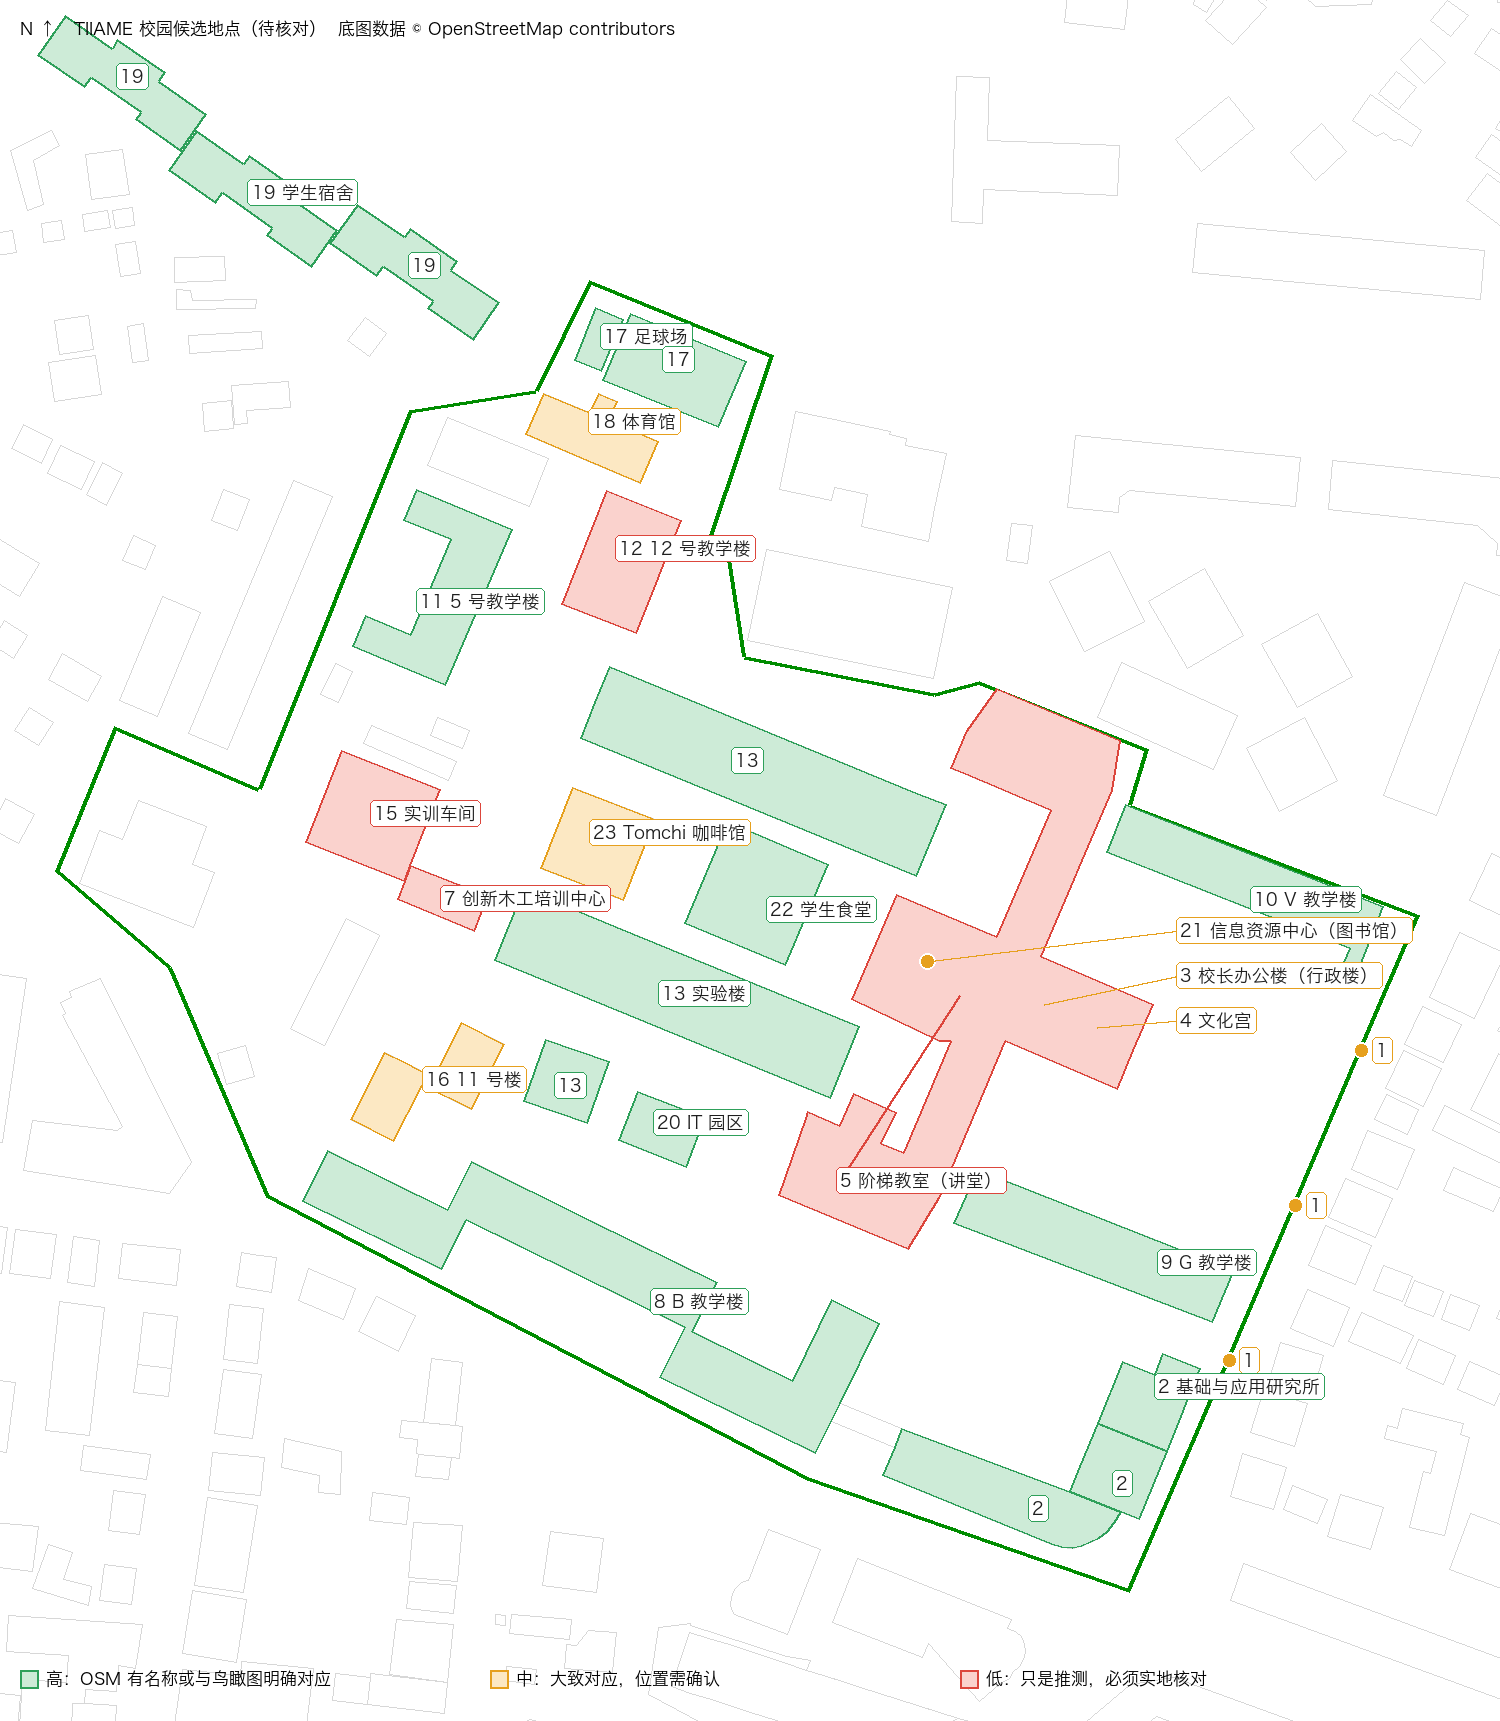
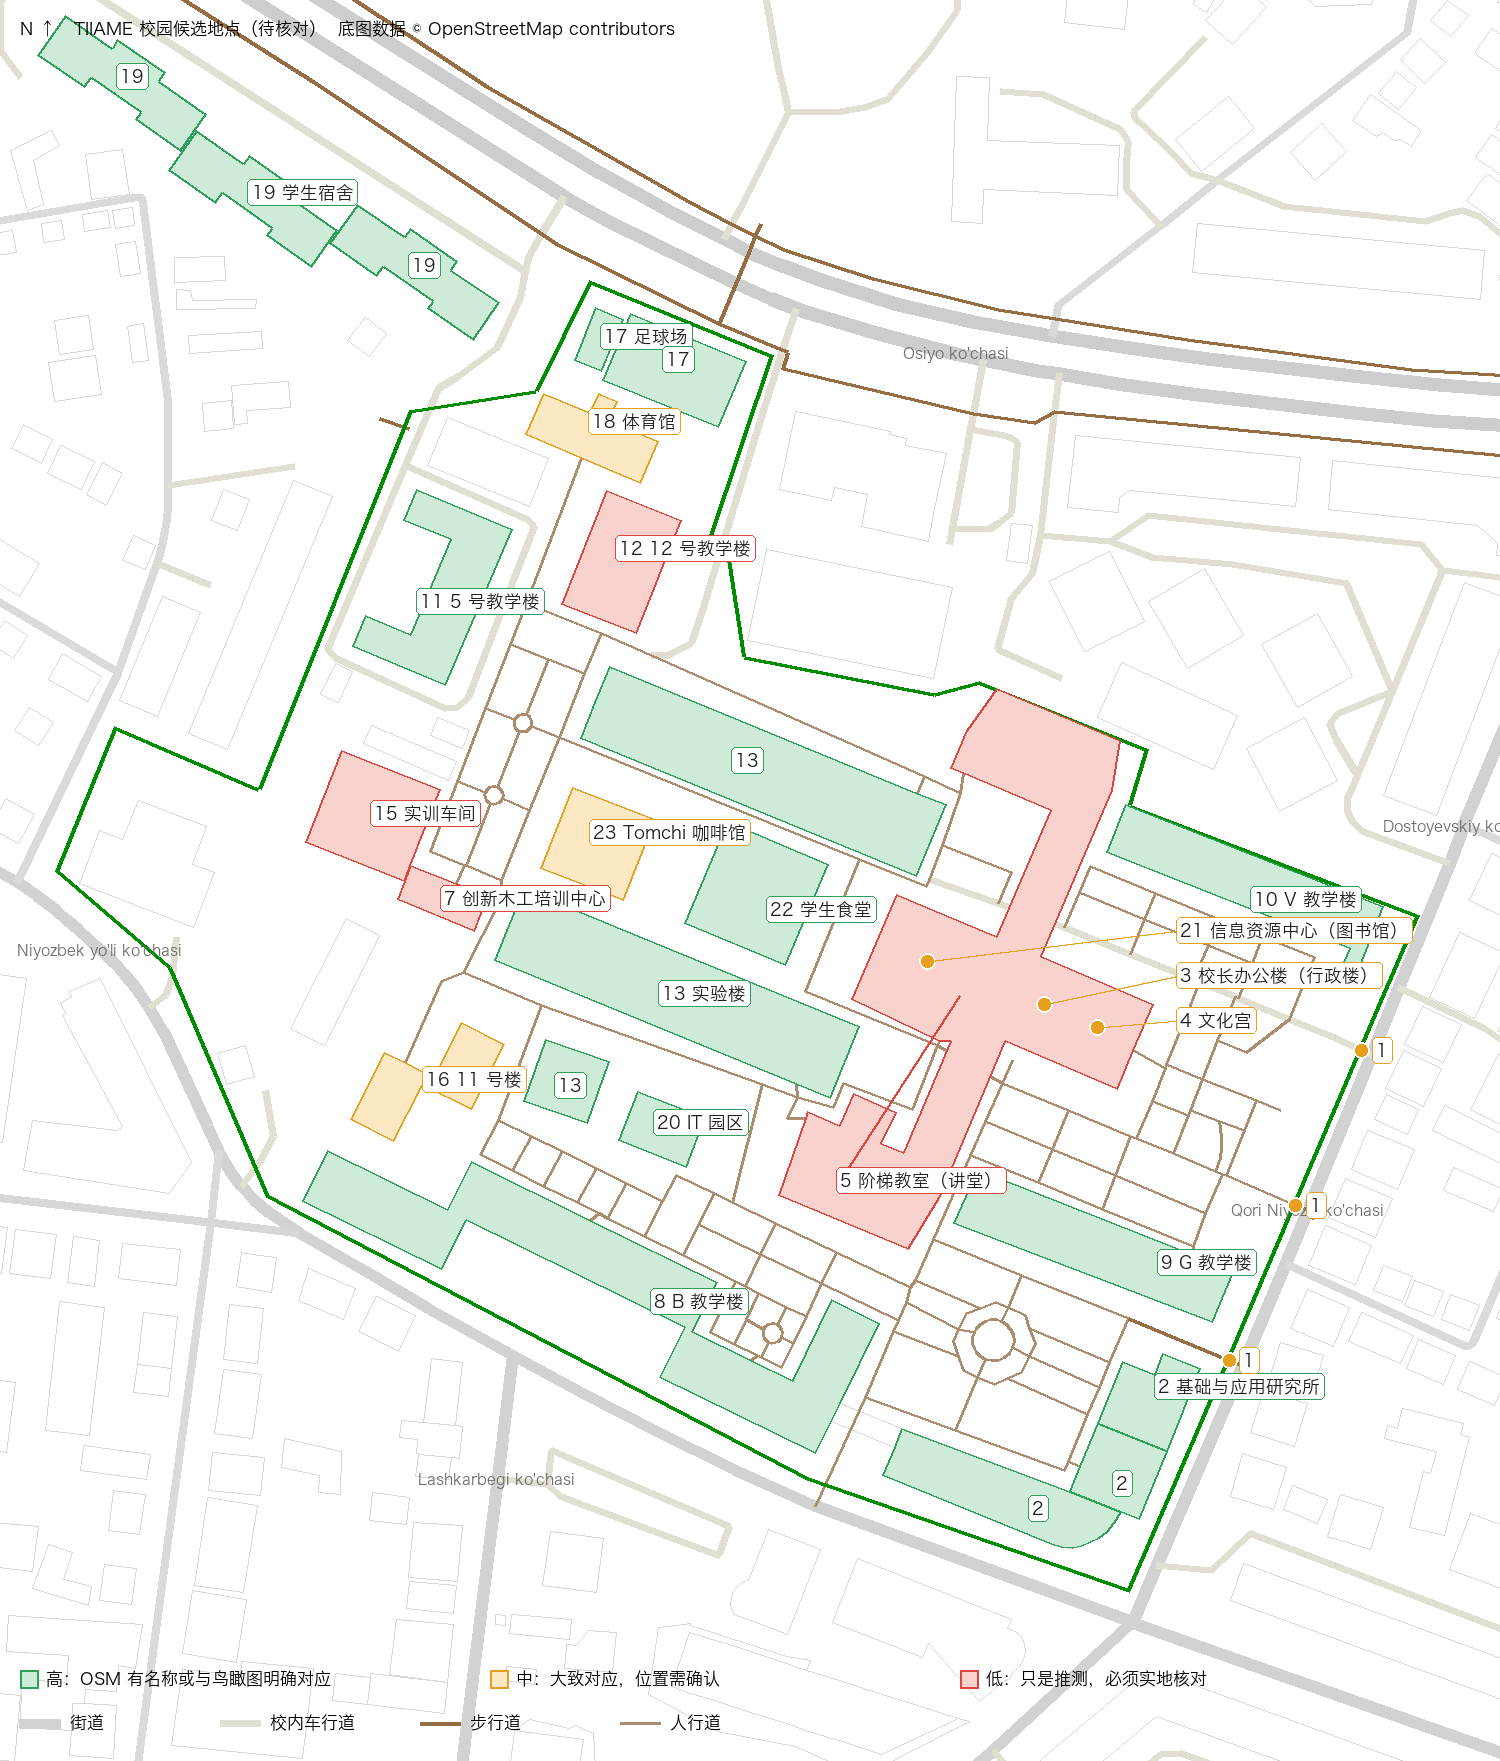
Add campus roads and footpaths to data and verification map

diff --git a/scripts/build_verify_map.py b/scripts/build_verify_map.py
@@ -1,0 +1,141 @@
+"""Draw docs/verify-map.png from the data files, for checking places on site.
+
+Usage: python3 scripts/build_verify_map.py
+Needs Pillow and macOS system fonts (Hiragino Sans GB).
+"""
+import json
+from pathlib import Path
+
+from PIL import Image, ImageDraw, ImageFont
+
+ROOT = Path(__file__).resolve().parent.parent
+PLACES = json.loads((ROOT / "data/places.candidates.geojson").read_text())
+CONTEXT = json.loads((ROOT / "data/osm-context.geojson").read_text())
+
+LAT0, LAT1, LON0, LON1 = 41.3212, 41.3262, 69.2922, 69.2982
+WIDTH = 1500
+KX = WIDTH / ((LON1 - LON0) * 83.5)
+HEIGHT = int((LAT1 - LAT0) * 111 * KX)
+
+FONT = "/System/Library/Fonts/Hiragino Sans GB.ttc"
+f_label = ImageFont.truetype(FONT, 19, index=1)
+f_small = ImageFont.truetype(FONT, 17)
+f_street = ImageFont.truetype(FONT, 15)
+
+CONF_LINE = {"high": (46, 160, 90), "medium": (230, 160, 30), "low": (220, 70, 60)}
+CONF_FILL = {"high": (205, 235, 215), "medium": (252, 232, 195), "low": (250, 210, 205)}
+
+# highway type -> (width px, color); drawn widest first
+ROAD_STYLE = {
+    "secondary": (14, (205, 205, 205)),
+    "tertiary": (12, (210, 210, 210)),
+    "unclassified": (9, (215, 215, 215)),
+    "residential": (8, (218, 218, 218)),
+    "living_street": (8, (218, 218, 218)),
+    "service": (7, (225, 222, 210)),
+}
+FOOTWAY = (4, (150, 110, 70))
+SIDEWALK = (3, (170, 140, 110))
+
+# Only these streets get a name label; the small lanes clutter the map.
+STREET_LABELS = {"Qori Niyoziy ko'chasi", "Osiyo ko'chasi", "Dostoyevskiy ko'chasi",
+                 "Lashkarbegi ko'chasi", "Niyozbek yo'li ko'chasi"}
+
+# Label anchors for the crowded central complex (pixel positions).
+LABEL_OVERRIDE = {21: (1180, 930), 3: (1180, 975), 4: (1180, 1020), 5: (840, 1180)}
+
+
+def px(lon, lat):
+    return ((lon - LON0) * 83.5 * KX, (LAT1 - lat) * 111 * KX)
+
+
+def main():
+    im = Image.new("RGB", (WIDTH, HEIGHT + 100), "white")
+    dr = ImageDraw.Draw(im)
+    ctx = CONTEXT["features"]
+
+    for f in ctx:
+        if f["properties"]["kind"] == "building":
+            dr.polygon([px(*c) for c in f["geometry"]["coordinates"][0]], outline=(215, 215, 215))
+
+    roads = [f for f in ctx if f["properties"]["kind"] == "road"]
+    for f in sorted(roads, key=lambda f: -ROAD_STYLE.get(f["properties"]["highway"], (0,))[0]):
+        p = f["properties"]
+        if p["highway"] == "footway":
+            w, col = SIDEWALK if p["footway"] == "sidewalk" else FOOTWAY
+        else:
+            w, col = ROAD_STYLE.get(p["highway"], (5, (225, 225, 225)))
+        dr.line([px(*c) for c in f["geometry"]["coordinates"]], fill=col, width=w, joint="curve")
+
+    campus = next(f for f in ctx if f["properties"]["kind"] == "campus")
+    dr.polygon([px(*c) for c in campus["geometry"]["coordinates"][0]], outline=(0, 140, 0), width=4)
+
+    # Street names, once each, on the longest segment inside the image.
+    best = {}
+    for f in roads:
+        name = f["properties"]["name"]
+        if name not in STREET_LABELS:
+            continue
+        pts = [px(*c) for c in f["geometry"]["coordinates"]]
+        pts = [q for q in pts if 0 < q[0] < WIDTH and 0 < q[1] < HEIGHT]
+        if len(pts) >= 2 and len(pts) > len(best.get(name, [])):
+            best[name] = pts
+    for name, pts in best.items():
+        x, y = pts[len(pts) // 2]
+        dr.text((x, y), name, font=f_street, fill=(110, 110, 110), anchor="mm")
+
+    labels = {}
+    polys = [f for f in PLACES["features"] if f["geometry"]["type"] == "Polygon"]
+    points = [f for f in PLACES["features"] if f["geometry"]["type"] == "Point"]
+    for f in polys + points:
+        p = f["properties"]
+        c = p["confidence"]
+        if f["geometry"]["type"] == "Polygon":
+            pts = [px(*q) for q in f["geometry"]["coordinates"][0]]
+            dr.polygon(pts, fill=CONF_FILL[c], outline=CONF_LINE[c], width=2)
+            cx = sum(x for x, _ in pts) / len(pts)
+            cy = sum(y for _, y in pts) / len(pts)
+        else:
+            cx, cy = px(*f["geometry"]["coordinates"])
+            dr.ellipse([cx - 8, cy - 8, cx + 8, cy + 8], fill=CONF_LINE[c], outline="white", width=2)
+        labels.setdefault(p["legend_no"], []).append((cx, cy, p["name_zh"], c, f["geometry"]["type"]))
+
+    for no, items in labels.items():
+        for i, (x, y, name, c, kind) in enumerate(items):
+            text = f"{no}" if (i > 0 or no == 1) else f"{no} {name}"
+            if no in LABEL_OVERRIDE and i == 0:
+                lx, ly = LABEL_OVERRIDE[no]
+                dr.line([x, y, lx, ly], fill=CONF_LINE[c], width=2)
+            else:
+                lx, ly = (x + 14 if kind == "Point" else x), y
+            bw = dr.textlength(text, font=f_label)
+            dr.rounded_rectangle([lx - 4, ly - 13, lx + bw + 4, ly + 13], radius=5, fill="white", outline=CONF_LINE[c])
+            dr.text((lx, ly), text, font=f_label, fill=(30, 30, 30), anchor="lm")
+
+    y = HEIGHT + 18
+    x = 20
+    for key, text in (
+        ("high", "高：OSM 有名称或与鸟瞰图明确对应"),
+        ("medium", "中：大致对应，位置需确认"),
+        ("low", "低：只是推测，必须实地核对"),
+    ):
+        dr.rectangle([x, y - 9, x + 18, y + 9], fill=CONF_FILL[key], outline=CONF_LINE[key], width=2)
+        dr.text((x + 26, y), text, font=f_small, fill="black", anchor="lm")
+        x += 470
+    y = HEIGHT + 62
+    x = 20
+    for (w, col), text in (((10, (210, 210, 210)), "街道"), ((7, (225, 222, 210)), "校内车行道"),
+                           (FOOTWAY, "步行道"), (SIDEWALK, "人行道")):
+        dr.line([x, y, x + 40, y], fill=col, width=w)
+        dr.text((x + 50, y), text, font=f_small, fill="black", anchor="lm")
+        x += 200
+    dr.text((20, 20), "N ↑   TIIAME 校园候选地点（待核对）  底图数据 © OpenStreetMap contributors",
+            font=f_small, fill="black")
+
+    out = ROOT / "docs/verify-map.png"
+    im.save(out)
+    print(out, im.size)
+
+
+if __name__ == "__main__":
+    main()

diff --git a/README.md b/README.md
@@ -15,7 +15,8 @@ find teaching buildings, the canteen, the library and other places, starting fro
 - `data/places.candidates.geojson` — candidate locations, **not yet verified on site**.
   Each feature has `legend_no` (number on the official campus map), names in
   English / O‘zbekcha / 中文, `confidence` (high / medium / low) and `verified`.
-- `docs/verify-map.png` — map for on-site checking.
+- `data/osm-context.geojson` — campus boundary, nearby buildings, streets and footpaths from OpenStreetMap.
+- `docs/verify-map.png` — map for on-site checking, built by `python3 scripts/build_verify_map.py`.
 
 Building outlines and some names come from OpenStreetMap,
 © OpenStreetMap contributors, available under the
